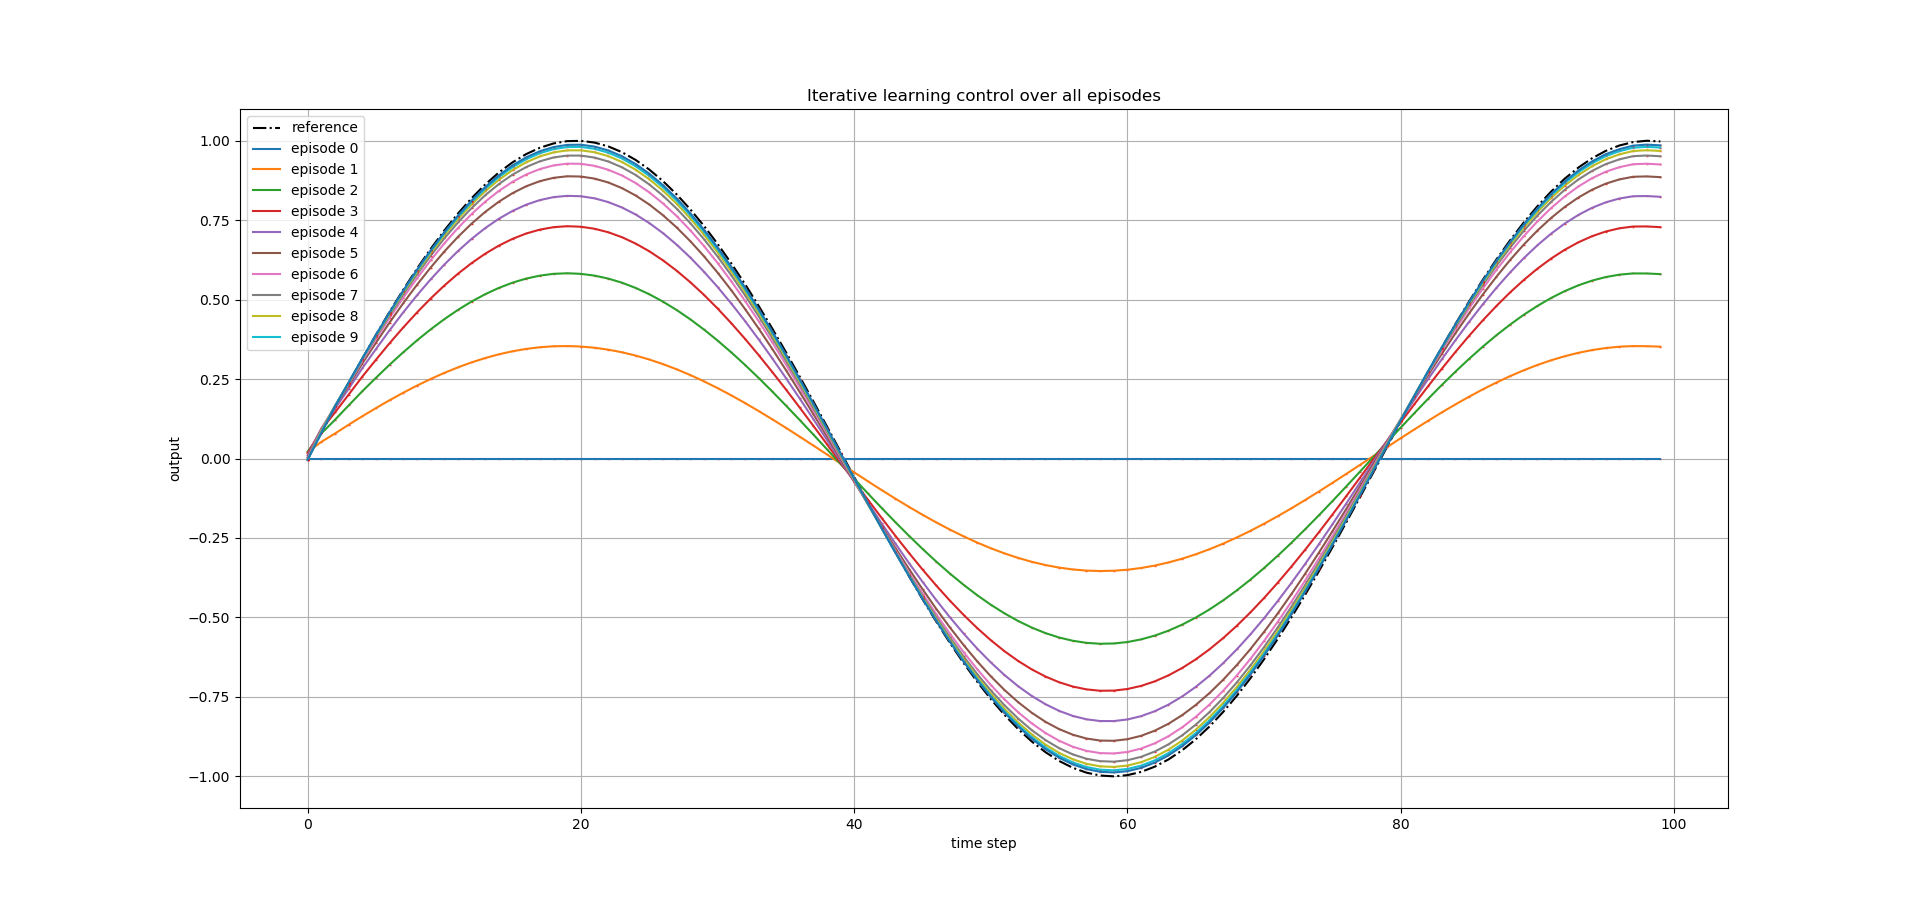
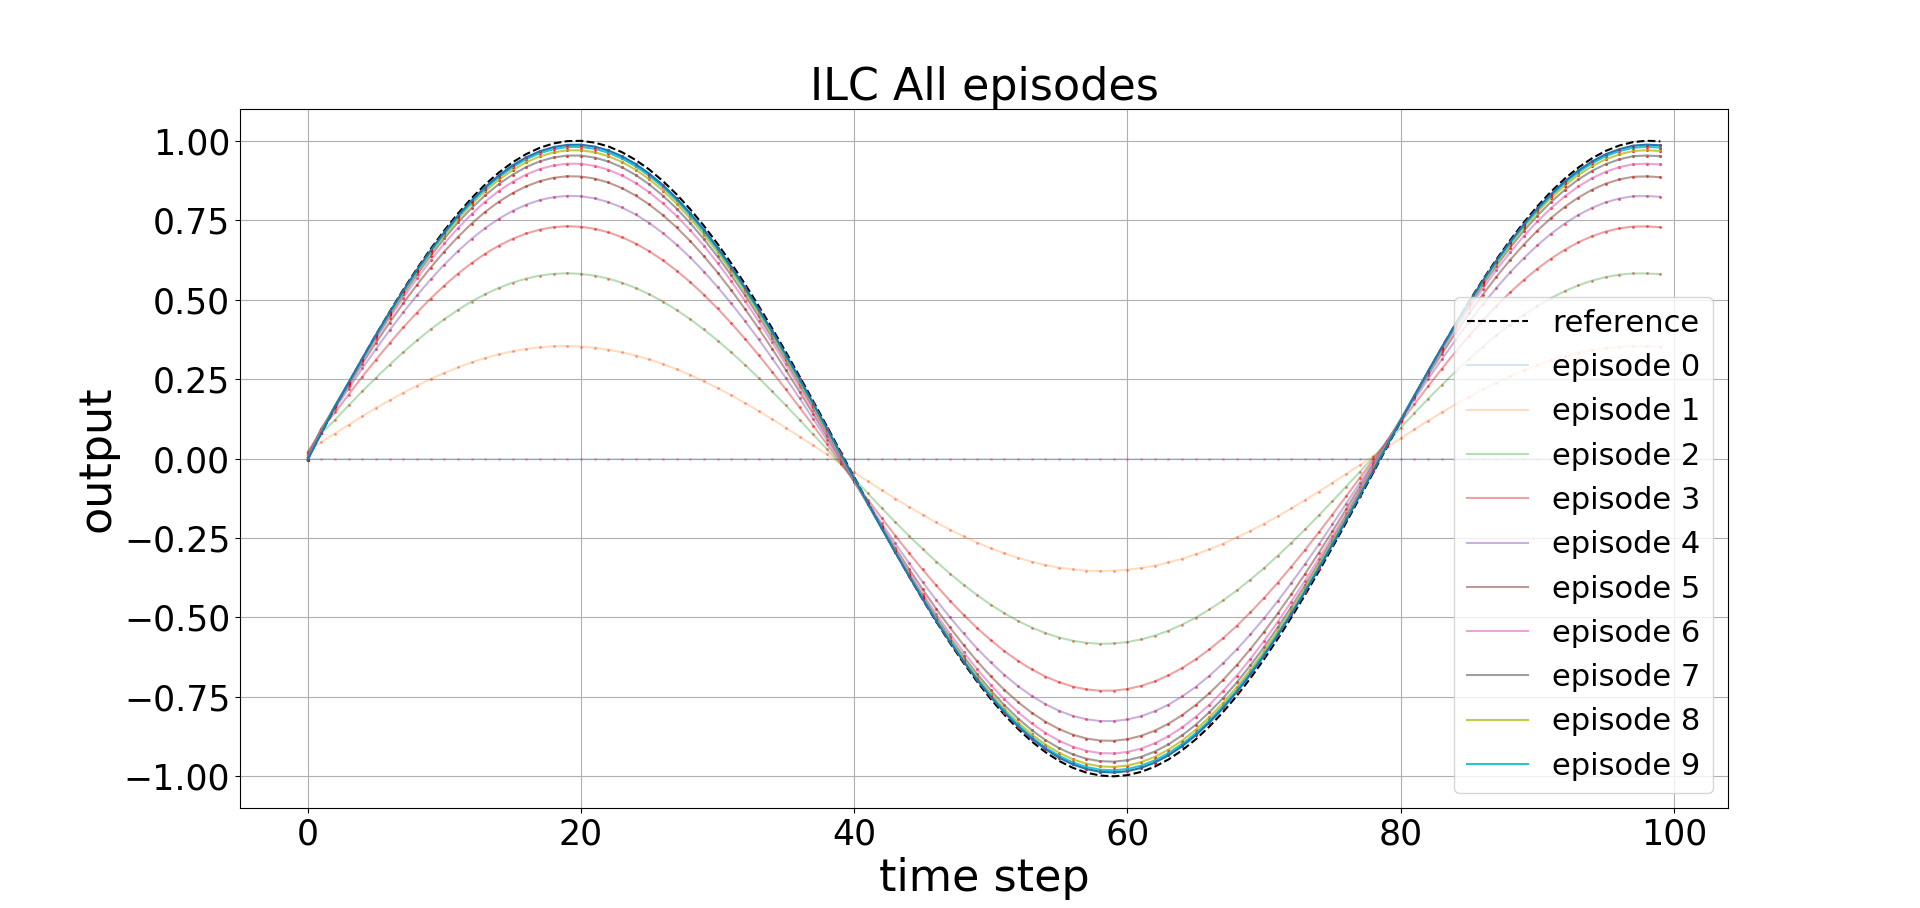
minor changes, cosmetic

diff --git a/iterative_learning_control.py b/iterative_learning_control.py
@@ -78,29 +78,31 @@ class performILC:
             e_prev, u_prev = e, u
             # making a nice simulation in time over all learning episodes
             plt.figure(0)
+            plt.title('ILC All episodes', fontSize=32)
+            plt.xlabel('time step', fontSize=32)
+            plt.ylabel('output', fontSize=32)
+            plt.xticks(fontsize=25)
+            plt.yticks(fontsize=25)
+            plt.grid()
             if k == 0:
-                plt.plot(np.arange(self.T), yd, 'k-.', markersize=2, label='reference')
+                plt.pause(5) if k == 0 else plt.pause(5)
+                plt.plot(np.arange(self.T), yd, color='k', linestyle='--', markersize=4, label='reference')
             for t in range(T):
-                plt.plot(t, traj[k][t], 'r_', markersize=1, alpha=(0.75 + 0.25*(k+1)/(K+1)))
-                plt.legend()
-                # plt.pause(1/T**3)
+                plt.plot(t, traj[k][t], color='r',  marker='.', markersize=2.5, alpha=(0.10 + 0.90*(k+1)/(K+1)))
+                plt.legend(fontsize=22, loc=4)
+                plt.pause(1/T**3/100)
             label = 'episode ' + str(k)
-            plt.plot(np.arange(T), traj[k], label=label)
+            plt.plot(np.arange(T), traj[k], markersize=3, label=label, alpha=(0.10 + 0.90*(k+1)/(K+1)))
             k += 1
             self.k = k  # required to communicate the iteration number to trajComp(self, u_prev, e_prev)
-            plt.title('Iterative learning control over all episodes')
-            plt.xlabel('time step')
-            plt.ylabel('output')
         return yd, traj
 
 if __name__ == '__main__':
     plt.close('all')
     # siso_linear = performILC(T=100, K=10, gamma=0.5, example='linear')
     # yd, traj = siso_linear.ILC()
-    # plt.grid()
     # plt.savefig('lin_sisoILC')
     # plt.clf()
-    siso_nonlinear = performILC(T=100, K=11, gamma=0.5, example='nonlinear')
+    siso_nonlinear = performILC(T=100, K=10, gamma=0.5, example='nonlinear')
     yd, traj = siso_nonlinear.ILC()
     plt.savefig('nonlin_sisoILC')
-    plt.grid()
